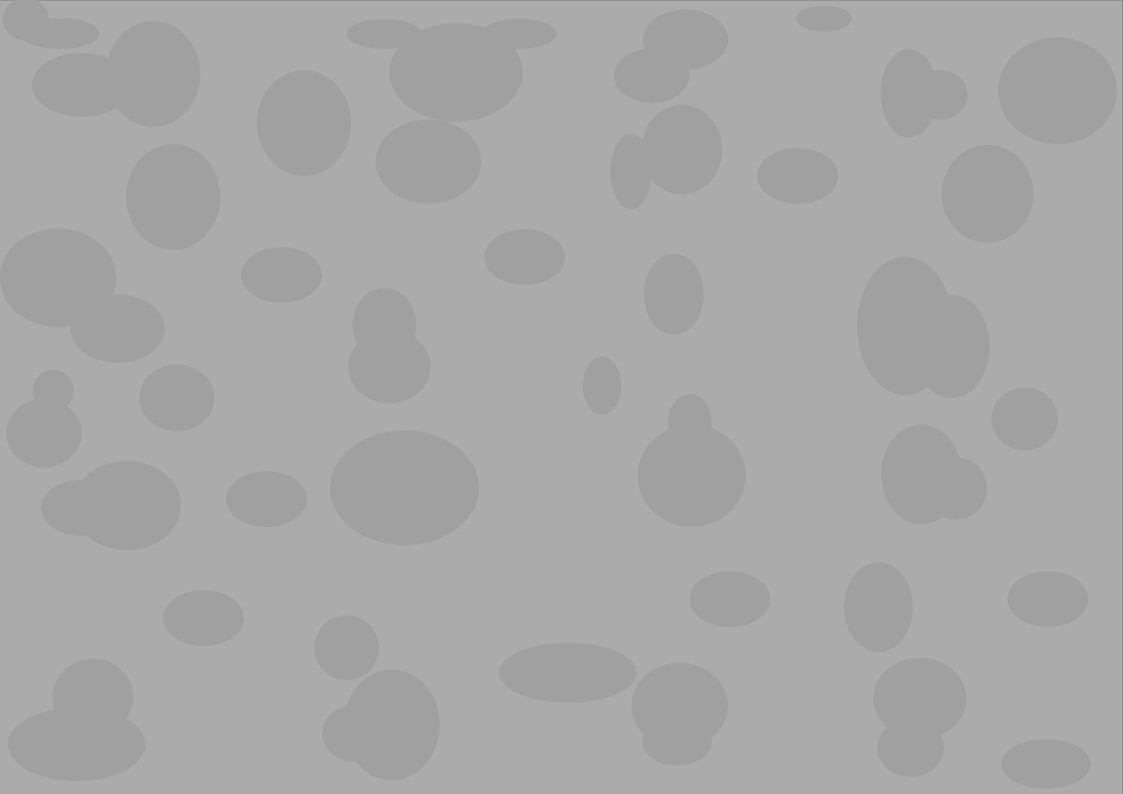
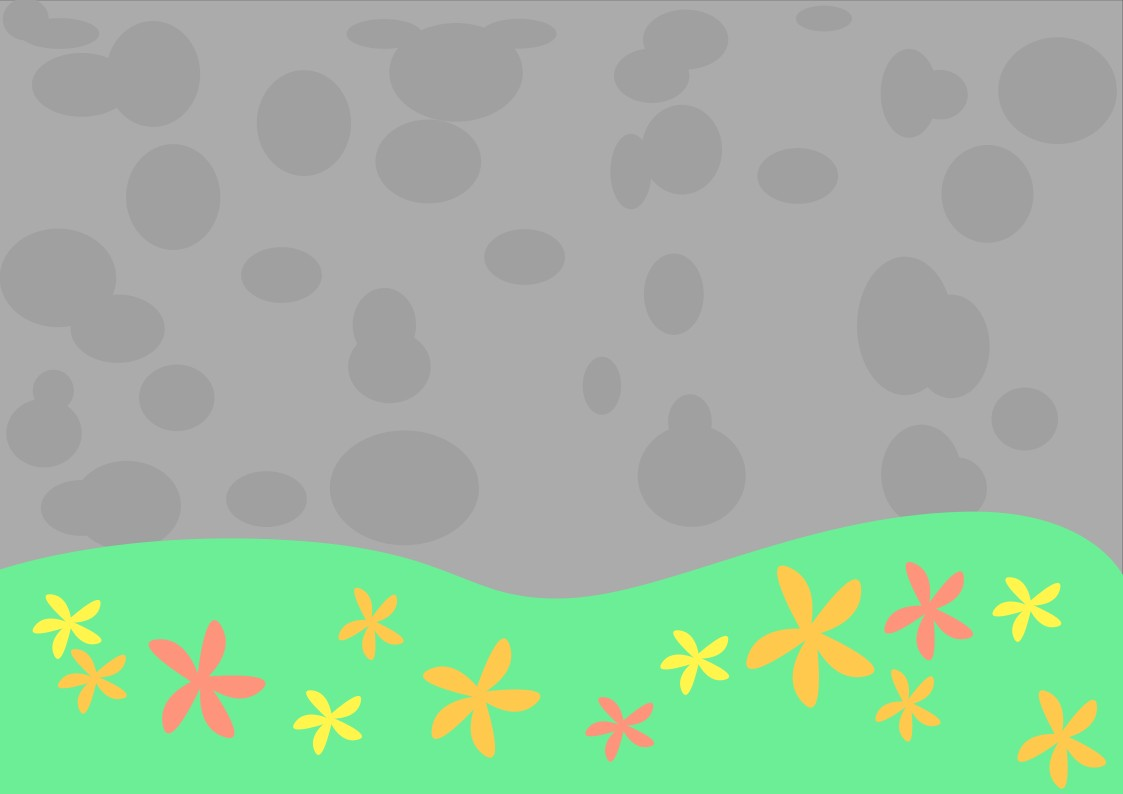
add book pickup type (and change some surrounding textures)

diff --git a/src/view/pickup/PickupView.tsx b/src/view/pickup/PickupView.tsx
@@ -6,52 +6,68 @@ import { gameState } from "../..";
 import { useFrame, useLoader } from "@react-three/fiber";
 import { PickupType } from "../../model/Pickup";
 import PencilModel from "./pencil.glb";
-import {useGLTF} from "@react-three/drei";
+import BookModel from "./book.glb";
+import { useGLTF } from "@react-three/drei";
 import { GLTF } from "three-stdlib";
 import BackgroundImage from "./background.png";
 
 const ROTATION_SPEED: number = 4;
 
-type GLTFResult = GLTF & {
-    nodes: {
-        Pencil_Low_pencil_0: THREE.Mesh
-    }
-    materials: {
-        ['pencil.002']: THREE.MeshStandardMaterial
-    }
-}
-
 const Pencil = React.forwardRef(function(props: JSX.IntrinsicElements['group'], ref: React.Ref<THREE.Group>) {
-    const { nodes, materials } = useGLTF(PencilModel) as GLTFResult;
-    const meshRef = React.useRef<THREE.Group | null>();
-    
-    useFrame((s, delta) => {
-        if (meshRef.current) {
-            meshRef.current.rotateY(delta * ROTATION_SPEED);
+    type GLTFResult = GLTF & {
+        nodes: {
+            Pencil_Low_pencil_0: THREE.Mesh
         }
-    });
+        materials: {
+            ['pencil.002']: THREE.MeshStandardMaterial
+        }
+    }
+    
+    const { nodes, materials } = useGLTF(PencilModel) as GLTFResult;
     
     return (
-        <group {...props} dispose={null} ref={(obj) => {
-            meshRef.current = obj;
-            if (ref && ref instanceof Function) {
-                ref(obj);
-            } else if (ref && "current" in ref && obj) {
-                (ref as React.MutableRefObject<THREE.Group>).current = obj;
-            }
-        }}>
+        <group {...props} dispose={null} ref={ref}>
             <mesh
                 geometry={nodes.Pencil_Low_pencil_0.geometry}
                 material={materials['pencil.002']}
-                rotation={[0, 0, 0.734]}
                 scale={3.948}/>
         </group>
     );
 });
 
-useGLTF.preload(PencilModel)
+useGLTF.preload(PencilModel);
+
+const Book = React.forwardRef(function(props: JSX.IntrinsicElements['group'], ref: React.Ref<THREE.Group>) {
+    type GLTFResult = GLTF & {
+        nodes: {
+        Book_0: THREE.Mesh
+        Book_1: THREE.Mesh
+        }
+        materials: {
+        BookMaterial: THREE.MeshStandardMaterial
+        BookPaperMaterial: THREE.MeshStandardMaterial
+        }
+    }
+
+    const { nodes, materials } = useGLTF(BookModel) as GLTFResult;
+    return (
+        <group {...props} dispose={null} ref={ref}>
+            <group rotation={[-Math.PI / 2, 0, 0]} scale={1}>
+                <mesh
+                    geometry={nodes.Book_0.geometry}
+                    material={materials.BookMaterial}/>
+                <mesh
+                    geometry={nodes.Book_1.geometry}
+                    material={materials.BookPaperMaterial}/>
+            </group>
+        </group>
+    );
+});
+
+useGLTF.preload(BookModel);
 
 export const PickupView = function({lane, pickupId}: {lane: Lane, pickupId: string}): React.JSX.Element {
+    const groupRef = React.useRef<THREE.Group>(null);
     const meshRef = React.useRef<THREE.Mesh & THREE.Group>(null);
     const pickup = gameState.currentInstance.terrainManager.pickupById(pickupId);
     const circleTextureMap = useLoader(THREE.TextureLoader, BackgroundImage) as THREE.Texture;
@@ -62,27 +78,38 @@ export const PickupView = function({lane, pickupId}: {lane: Lane, pickupId: stri
     }
 
     useFrame((s, delta) => {
+        if(groupRef.current) {
+            groupRef.current.position.y = pickup.height;
+            groupRef.current.position.z = pickup.offset;
+        }
         if(meshRef.current) {
-            meshRef.current.position.y = pickup.height;
-            meshRef.current.position.z = pickup.offset;
-            //meshRef.current.visible = pickup.offset <= 40;
+            meshRef.current.rotateOnWorldAxis(new THREE.Vector3(0,1,0),delta*ROTATION_SPEED);
         }
     });
-
+    
+    let pickupElement;
     switch(pickup.type) {
         case PickupType.Notes:
-            return (<mesh position={[laneToOffset(lane), 2, 5]} ref={meshRef}>
+            pickupElement = (<mesh ref={meshRef}>
                 <meshStandardMaterial color={0xff0000}/>
                 <boxGeometry args={[0.2, 0.2, 0.2]}/>
             </mesh>);
+            break;
         case PickupType.Pencil:
-            return <group position={[laneToOffset(lane), 2, 0]} ref={meshRef}>
-                <Pencil scale={[3,3,3]}/>;
-                <sprite position={[0,0,0.5]} scale={[1.5,1.5,1.5]}>
-                    <spriteMaterial map={circleTextureMap}/>
-                </sprite>
-            </group>;
+            pickupElement = <Pencil scale={[3,3,3]} rotation={[0,0,Math.PI / 4]} ref={meshRef}/>;
+            break;
+        case PickupType.Book:
+            pickupElement = <Book scale={0.5} rotation={[0,0,Math.PI / 3.5]} ref={meshRef}/>;
+            break;
     }
+    
+    return (
+        <group position={[laneToOffset(lane), 2, 0]} ref={groupRef}>
+            {pickupElement}
+            <sprite position={[0,0,0.5]} scale={[1.5,1.5,1.5]}>
+                <spriteMaterial map={circleTextureMap}/>
+            </sprite>
+        </group>
+    );
 }
 
-useGLTF.preload(PencilModel);

diff --git a/src/view/Surroundings.tsx b/src/view/Surroundings.tsx
@@ -2,30 +2,42 @@ import * as THREE from "three";
 import * as React from "react";
 import RailTexturue from "./rail.jpg";
 import Skyline from "./skyline.jpg";
+import GroundSideTexture from "./ground.jpg";
 import { MeshProps, useFrame, useLoader } from "@react-three/fiber";
 import { gameState } from "..";
 
 function BottomPlate(): React.JSX.Element {
-    const texture = useLoader(THREE.TextureLoader, RailTexturue) as THREE.Texture;
+    const railTexture = useLoader(THREE.TextureLoader, RailTexturue) as THREE.Texture;
 
-    texture.wrapS = THREE.RepeatWrapping;
-    texture.wrapT = THREE.RepeatWrapping;
-    texture.repeat.set(15,3);
-    texture.rotation = Math.PI / 2;
+    railTexture.wrapS = THREE.RepeatWrapping;
+    railTexture.wrapT = THREE.RepeatWrapping;
+    railTexture.repeat.set(15,3);
+    railTexture.rotation = Math.PI / 2;
+    
+    const sideTextureLeft = useLoader(THREE.TextureLoader, GroundSideTexture) as THREE.Texture;
+    
+    sideTextureLeft.wrapS = THREE.RepeatWrapping;
+    sideTextureLeft.repeat.set(15, 1);
+    sideTextureLeft.center.set(0.5, 0.5);
+    sideTextureLeft.rotation = Math.PI * 3 / 2;
+    
+    const sideTextureRight = sideTextureLeft.clone();
+    
+    sideTextureRight.rotation = Math.PI / 2;
 
     return (
         <>
             <mesh rotation={[Math.PI/2, 0, 0]} position={[0,0,0]}>
                 <planeGeometry args={[9, 50]} />
-                <meshStandardMaterial map={texture} side={THREE.DoubleSide} />
+                <meshStandardMaterial map={railTexture} side={THREE.DoubleSide} />
             </mesh>
             <mesh rotation={[Math.PI/2, 0, 0]} position={[6.5,0,0]}>
                 <planeGeometry args={[4, 50]}/>
-                <meshStandardMaterial color={0x888888} side={THREE.DoubleSide} />
+                <meshStandardMaterial map={sideTextureRight} side={THREE.DoubleSide} />
             </mesh>
             <mesh rotation={[Math.PI/2, 0, 0]} position={[-6.5,0,0]}>
                 <planeGeometry args={[4, 50]}/>
-                <meshStandardMaterial color={0x888888} side={THREE.DoubleSide} />
+                <meshStandardMaterial map={sideTextureLeft} side={THREE.DoubleSide} />
             </mesh>
         </>
     );

diff --git a/src/model/Pickup.ts b/src/model/Pickup.ts
@@ -4,6 +4,7 @@ import { v4 as uuidv4 } from 'uuid';
 export enum PickupType {
     Notes,
     Pencil,
+    Book,
 }
 
 export class Pickup {
@@ -32,6 +33,8 @@ export class Pickup {
             case PickupType.Notes:
                 return 100;
             case PickupType.Pencil:
+                return 100;
+            case PickupType.Book:
                 return 100;
         }
     }

diff --git a/src/model/Segment.ts b/src/model/Segment.ts
@@ -62,6 +62,6 @@ export const SEGMENTS = [
     ),
     new Segment(
         [[], [], []], [[], [], []],
-        [[new Pickup(PickupType.Pencil, 1, 10)], [new Pickup(PickupType.Notes, 1, 10)], [new Pickup(PickupType.Notes, 1, 10)]], 20
+        [[new Pickup(PickupType.Pencil, 1, 10)], [new Pickup(PickupType.Notes, 1, 10)], [new Pickup(PickupType.Book, 1, 10)]], 20
     )
 ];
